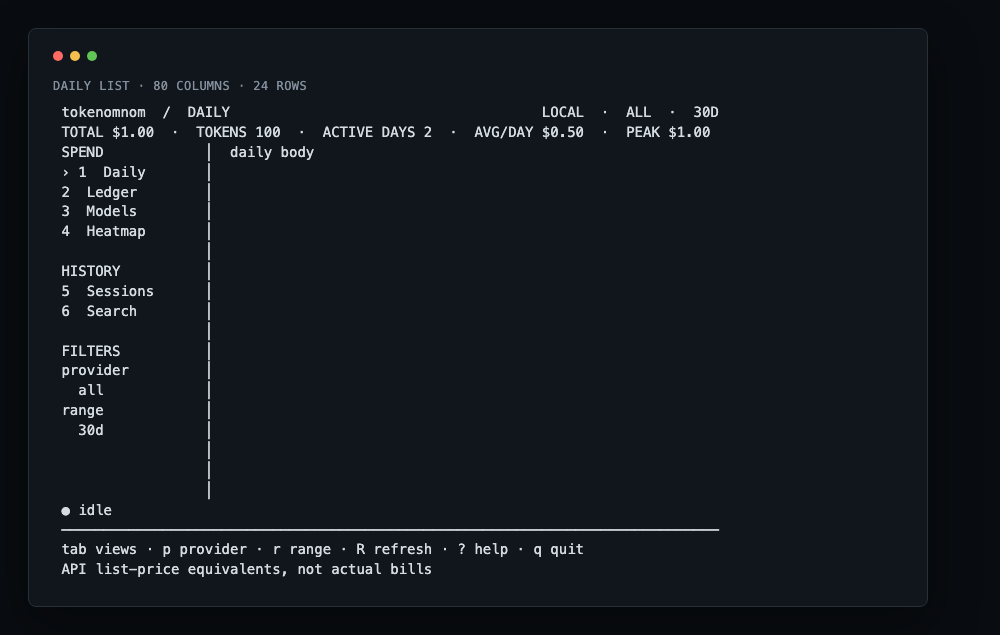
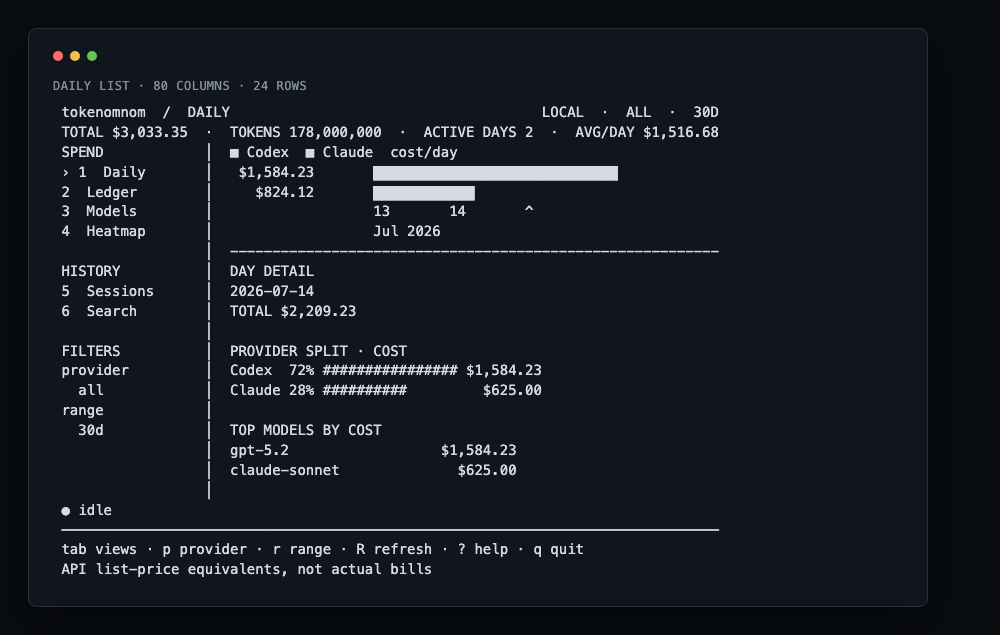
Fix Quest 117 evidence screenshots

diff --git a/internal/tui/app_test.go b/internal/tui/app_test.go
@@ -12,6 +12,7 @@ import (
 
 	"github.com/janiorvalle/tokenomnom/internal/history"
 	historystore "github.com/janiorvalle/tokenomnom/internal/history/store"
+	"github.com/janiorvalle/tokenomnom/internal/pricing"
 	"github.com/janiorvalle/tokenomnom/internal/theme"
 	tuipages "github.com/janiorvalle/tokenomnom/internal/tui/pages"
 )
@@ -339,17 +340,11 @@ func TestCockpitFillsTheWindow(t *testing.T) {
 }
 
 func TestEveryDashboardPageFitsAtEightyByTwentyFour(t *testing.T) {
-	model := loadedTestModel()
+	model := realisticEvidenceModel()
 	model.request.Width, model.request.Height = 80, 24
 	model.render.Width = 80
 	model.snapshot.Sessions = testSessionPageData()
-	model.snapshot.Ledger = tuipages.Data{
-		Available: true, Zoom: tuipages.ZoomDay, Month: "2026-07",
-		Rows: []tuipages.Row{
-			{Key: "2026-07-14", Label: "Jul 14", Codex: tuipages.ProviderTotals{Tokens: 130_000, PricedTokens: 130_000}},
-			{Key: "2026-07-13", Label: "Jul 13", Claude: tuipages.ProviderTotals{Tokens: 90_000, PricedTokens: 90_000}},
-		},
-	}
+	model.request.Ledger = tuipages.State{Zoom: tuipages.ZoomDay, Month: "2026-07"}
 	historyPage := NewHistorySearchPage(HistorySearchOptions{})
 	model.router = newRouter(historyPage)
 	model = updateKeyForTest(t, model, "?")
@@ -482,17 +477,10 @@ func TestKeyboardOnlyWalkReachesAndExitsEveryPage(t *testing.T) {
 }
 
 func TestQuest117KeyboardWalkEvidence(t *testing.T) {
-	model := loadedTestModel()
+	model := realisticEvidenceModel()
 	model.request.Width, model.request.Height = 80, 24
 	model.render.Width = 80
 	model.snapshot.Sessions = testSessionPageData()
-	model.snapshot.Ledger = tuipages.Data{
-		Available: true, Zoom: tuipages.ZoomDay, Month: "2026-07",
-		Rows: []tuipages.Row{
-			{Key: "2026-07-14", Label: "Jul 14", Codex: tuipages.ProviderTotals{Tokens: 130_000, PricedTokens: 130_000}},
-			{Key: "2026-07-13", Label: "Jul 13", Claude: tuipages.ProviderTotals{Tokens: 90_000, PricedTokens: 90_000}},
-		},
-	}
 	historyPage := NewHistorySearchPage(HistorySearchOptions{})
 	model.router = newRouter(historyPage)
 
@@ -1226,6 +1214,66 @@ func loadedTestModel() Model {
 	ledgerRow := tuipages.Row{Key: "2026", Label: "2026", Codex: tuipages.ProviderTotals{Tokens: 100, PricedTokens: 100}}
 	model.snapshot.Ledger = tuipages.Data{Available: true, Zoom: tuipages.ZoomYear, Rows: []tuipages.Row{ledgerRow}, Total: ledgerRow}
 	return model
+}
+
+func realisticEvidenceModel() Model {
+	model := loadedTestModel()
+	model.snapshot.Summary = Summary{Metrics: [5]SummaryMetric{
+		{Value: "$3,033.35", Kind: MetricMoney},
+		{Value: "178,000,000"},
+		{Value: "2"},
+		{Value: "$1,516.68", Kind: MetricMoney},
+		{Value: "$2,209.23", Kind: MetricMoney},
+	}}
+	model.snapshot.Views = [4]string{
+		realisticDailyEvidenceView(),
+		"",
+		"PROVIDER  MODEL                 TOKENS       COST\n" +
+			"codex     gpt-5.2             143,200,000  $2,408.35\n" +
+			"claude    claude-sonnet         34,800,000    $625.00",
+		"2026\nJul  ·······································\n" +
+			"Less ·░▒▓█ More\n2 active days · total cost $3,033.35",
+	}
+	model.snapshot.Sessions = testSessionPageData()
+	model.snapshot.Sessions.Sessions[0].Preview = "Investigate the production latency regression"
+	model.snapshot.Sessions.Sessions[1].Preview = "Prepare the migration rollout plan"
+	july14 := tuipages.Row{
+		Key: "2026-07-14", Label: "Jul 14",
+		Codex:  tuipages.ProviderTotals{Cost: pricing.Money(1_584_230_000_000), Tokens: 91_200_000, PricedTokens: 91_200_000},
+		Claude: tuipages.ProviderTotals{Cost: pricing.Money(625_000_000_000), Tokens: 34_800_000, PricedTokens: 34_800_000},
+	}
+	july13 := tuipages.Row{
+		Key: "2026-07-13", Label: "Jul 13",
+		Codex: tuipages.ProviderTotals{Cost: pricing.Money(824_120_000_000), Tokens: 52_000_000, PricedTokens: 52_000_000},
+	}
+	model.snapshot.Ledger = tuipages.Data{
+		Available: true, Zoom: tuipages.ZoomDay, Month: "2026-07", Rows: []tuipages.Row{july14, july13},
+		Total: july14.Add(july13),
+	}
+	model.request.Ledger = tuipages.State{Zoom: tuipages.ZoomDay, Month: "2026-07"}
+	return model
+}
+
+func realisticDailyEvidenceView() string {
+	return strings.Join([]string{
+		"■ Codex  ■ Claude  cost/day",
+		" $1,584.23       █████████████████████████████",
+		"   $824.12       ████████████",
+		"                 13       14       ^",
+		"                 Jul 2026",
+		"----------------------------------------------------------",
+		"DAY DETAIL",
+		"2026-07-14",
+		"TOTAL $2,209.23",
+		"",
+		"PROVIDER SPLIT · COST",
+		"Codex  72% ################ $1,584.23",
+		"Claude 28% ##########         $625.00",
+		"",
+		"TOP MODELS BY COST",
+		"gpt-5.2                  $1,584.23",
+		"claude-sonnet              $625.00",
+	}, "\n")
 }
 
 func loadedMessage(model Model, request Request, snapshot Snapshot) loadedMsg {
